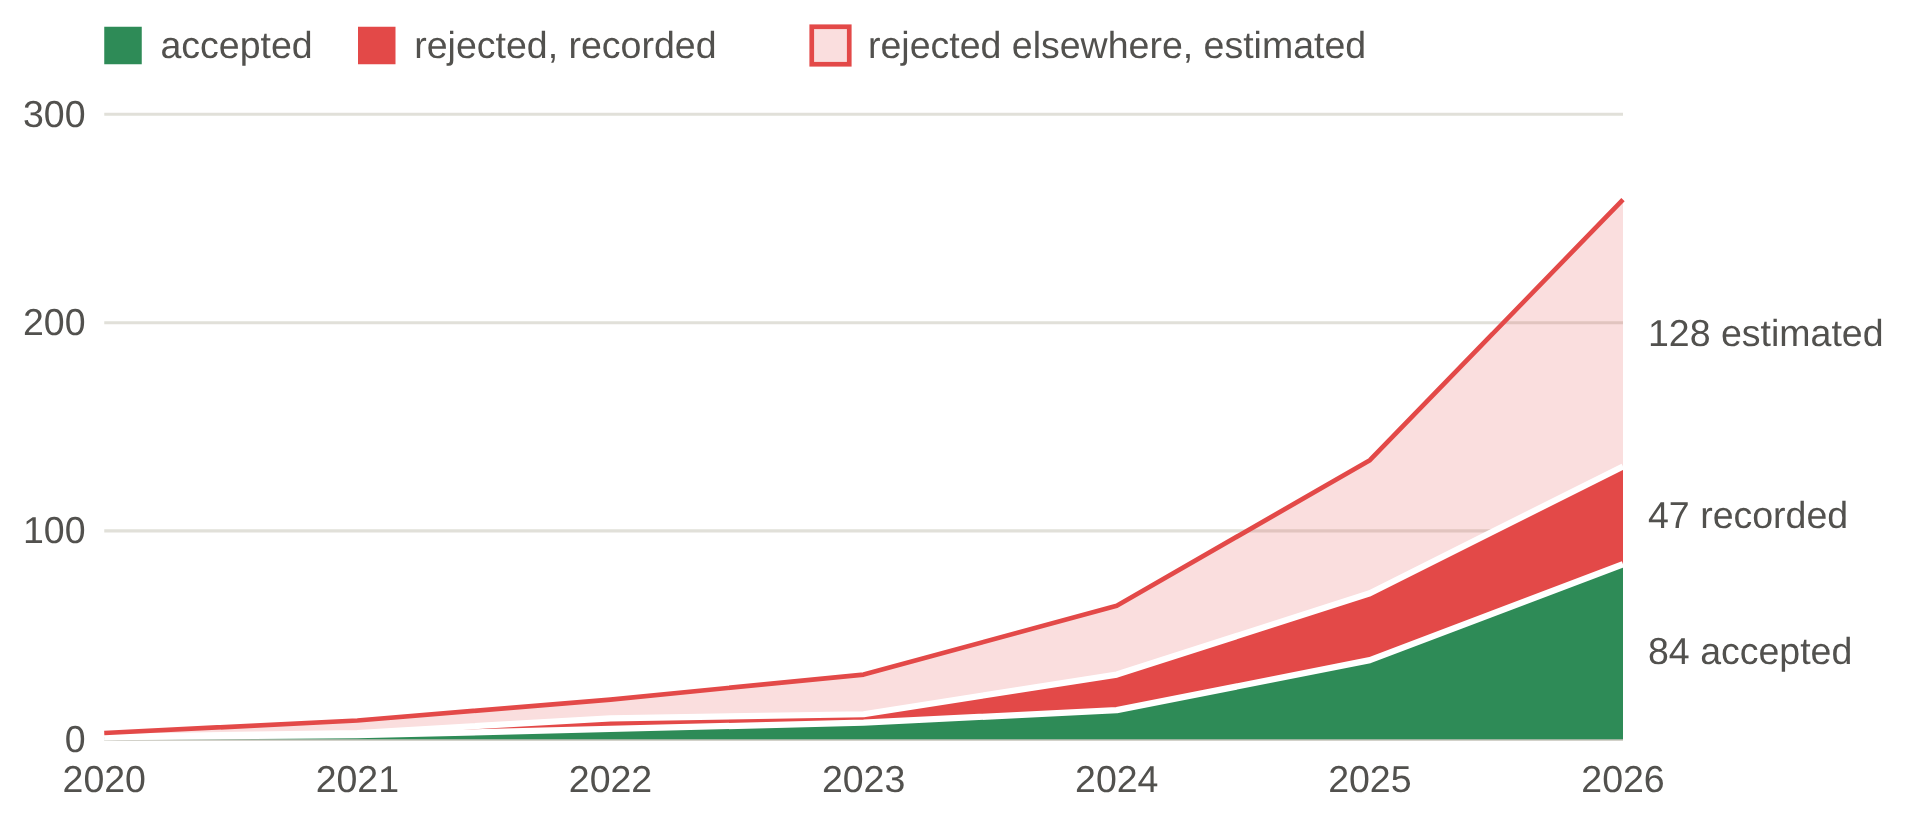
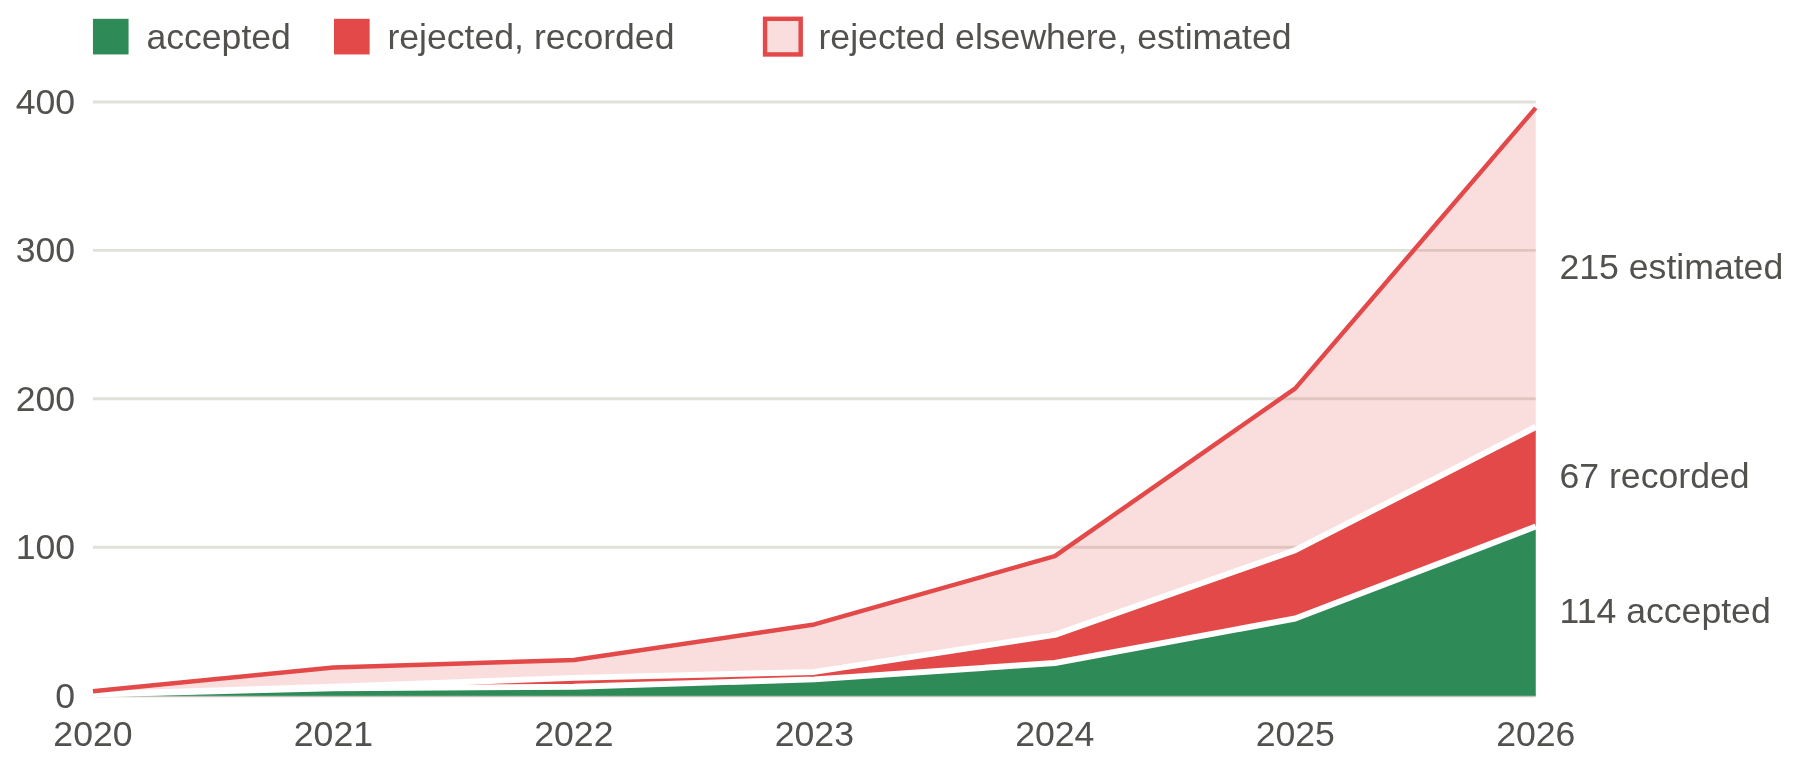
README: current figures (submissions 2020-2026, researcher collaboration), top-10 sample table; maintainer's README edits; networkx in the setup

diff --git a/README.md b/README.md
@@ -1,74 +1,100 @@
-# Vietnam at top AI conferences
+# Vietnam AIRankings
 
-A bilingual (Vietnamese / English) static site that counts, for a hand-approved list of lecturers and professors in
-Vietnam, the papers they submitted to and had accepted or rejected at AAAI, IJCAI, ICLR, NeurIPS, ICML, CVPR, ICCV, ECCV, ACL,
-EMNLP and NAACL since 2020, grouped as CSRankings does (AI, ML, CV, NLP).
+An open-source, data-driven bilingual (Vietnamese / English) static site that tracks and benchmarks scientific publications from faculty at Vietnamese universities at premier international conferences in artificial intelligence.
 
-**Website: <https://thanhlexyz.github.io/vn-at-top-ai-conference/>**
+Publications are tracked from 2020 onward across ten flagship conferences in four core subfields following the [CSRankings](https://csrankings.org/) model:
+- **AI:** AAAI, IJCAI
+- **ML:** ICLR, NeurIPS, ICML
+- **CV:** CVPR, ICCV (odd years), ECCV (even years)
+- **NLP:** ACL, EMNLP
+
+**Live Website:** <https://thanhlexyz.github.io/vn-at-top-ai-conference/>
 
 ![Accepted, recorded rejected and estimated rejected papers of all listed professors per year](docs/submissions.png)
 
-*Submissions per year, all listed professors: accepted papers, rejections on record (every ICLR rejection, public
-NeurIPS rejections and Findings papers), and the rejections the other venues do not publish, estimated from each
-professor's own ICLR record.*
+*Submissions per year across all listed faculty: accepted papers, recorded rejections (all ICLR submissions, public NeurIPS rejections, and Findings papers), and estimated submissions at non-disclosing venues projected from each researcher's ICLR record using Laplace smoothing.*
 
 ![Researcher collaboration graph: professors on the list joined by the papers they share](docs/researcher-graph.png)
 
-*Who works with whom: each circle is a professor on the list (Vietnamese names), coloured by institution; lines join
-people who share papers, shorter for more shared papers.*
+*Co-authorship network: each node represents a tracked faculty member, colored by university affiliation. Connecting edges indicate shared publications, with shorter distances representing stronger collaboration.*
 
-The figures are snapshots of the site; the live pages are updated with the data.
+### Sample data: top 10 by CSRankings score (2026-11-23)
 
-## How to maintain it
+Accepted main-track papers per area and the CSRankings score; the full table is on the [live site](https://thanhlexyz.github.io/vn-at-top-ai-conference/).
 
-The site is maintained by asking an AI coding agent (for example Claude Code) to do the work, in plain words. Every
-step is described in [CLAUDE.md](CLAUDE.md); Claude Code reads it automatically, and any other agent can be told to
-read it first. Typical requests:
+| # | Professor | Institution | AI | ML | CV | NLP | CSRankings score |
+|---:|---|---|---:|---:|---:|---:|---:|
+| 1 | Đàm Quang Tuấn | HUST | 0 | 12 | 0 | 0 | 5.48 |
+| 2 | Ngô Văn Linh | HUST | 6 | 8 | 1 | 15 | 4.96 |
+| 3 | Đoàn Đăng Khoa | VinUni | 2 | 15 | 3 | 0 | 3.81 |
+| 4 | Nguyễn Phi Lê | HUST | 1 | 9 | 6 | 2 | 3.19 |
+| 5 | Phạm Văn Cường | PTIT | 2 | 2 | 9 | 0 | 2.52 |
+| 6 | Lê Duy Dũng | VinUni | 2 | 7 | 1 | 1 | 2.36 |
+| 7 | Thân Quang Khoát | HUST | 1 | 7 | 1 | 1 | 1.84 |
+| 8 | Huỳnh Thị Thanh Bình | HUST | 3 | 2 | 0 | 1 | 1.70 |
+| 9 | Phạm Văn Cảnh | Phenikaa | 4 | 1 | 0 | 0 | 1.25 |
+| 10 | Nguyễn Tuấn Bình | VinUni | 0 | 4 | 0 | 0 | 1.08 |
 
-- "Track `<OpenReview profile URL>`, he is a lecturer at `<university>`."
-- "Add these unofficial acceptances: `<announcement text, screenshot or link>`."
-- "`<name>`'s photo is at `<link>`" or "their staff page is `<link>`".
-- "This paper is wrong: `<link>`" (wrong person, wrong affiliation, missing paper).
-- "Refresh the data" (for example after a conference publishes its accepted papers).
-- "Publish."
+---
 
-Check the result on the local site (`make run`, then <http://localhost:1313>) or on the live site after publishing.
+## Key Features & Methodology
 
-## What you need to do yourself
+- **Scope & Criteria:** Tracks Vietnamese lecturers, assistant professors, associate professors, and full professors whose primary appointment is at a university in Vietnam. Only official full-length Main Track papers (Long Papers) are counted toward primary rankings.
+- **CSRankings Scoring:** Each paper receives 1.0 point divided equally among all authors (`1 / N`). An institution's score is the geometric mean of `(Area Score + 1)` across all four subfields.
+- **Authorship Perspectives:** Provides dedicated filters for **first-author** and **majority-institution (>50%)** publications, highlighting direct lab mentoring and internal student guidance versus broad external collaborations.
+- **Submission Modeling:** Accounts for differing review disclosure policies across venues. Confirmed acceptances at confidential venues are extrapolated based on the researcher's demonstrated ICLR submission and acceptance rates.
+- **Interactive Visualizations:** Includes institution and co-author collaboration graphs, annual publication trends, and venue distributions.
 
-- **Set up once:** Python 3.10+, Hugo 0.156+, `poppler` (`pdftotext`), ImageMagick, and
-  `pip install openreview-py opencv-python-headless`.
-- **Give your OpenReview login** in the environment as `OPENREVIEW_USERNAME` and `OPENREVIEW_PASSWORD` (OpenReview
-  is the only source of rejected papers; the agent never prints them).
-- **Decide** what only you can decide: who belongs on the list, and the answers the agent asks for when a match is
-  uncertain.
-- **Keep private material out of the repository.** The repository is public: everything committed, including
-  `backend/roster.csv` and its notes, is visible to everyone. Screenshots and downloads go to the git-ignored
-  `backend/raw/`.
+---
 
-## TODO
+## How to Maintain
 
-- [ ] **Track more professors now that AAAI, IJCAI and NAACL are counted** (added 2026-10-05; the staff list was
-  not expanded then). The papers of people already on the list are counted, but lecturers in Vietnam who publish
-  mainly at these three venues are not on the list yet. Their lists print no affiliations, so `find_candidates.py`
-  cannot find them automatically, as it already cannot for ACL, EMNLP, and CVPR before 2023. Ways to find them:
-  - the Candidates page (`make run`): since 2026-10-05 it includes authors printed at a university in Vietnam on
-    AAAI, IJCAI and NAACL papers with two or more Vietnamese family names (`fetch_affiliations.py --scan`), 166
-    people in all, most of them students. The page shows each one's OpenReview post; 22 have a profile at the
-    university on their papers as lecturer or professor (looked up on 2026-10-05), the first ones to check;
-  - co-authors of professors already on the list, on their AAAI, IJCAI and NAACL papers;
-  - staff pages of faculties of computer science and AI in Vietnam (`backend/faculty.csv`).
+The site is designed to be maintained with the assistance of an AI coding agent (such as Claude Code or Gemini via Antigravity) through natural language requests. All operational rules and maintenance workflows are documented in [CLAUDE.md](CLAUDE.md).
 
-  For each person found, decide whether they qualify (a lecturer or higher whose main post is at a university in
-  Vietnam), then ask the agent to "track" them with their OpenReview profile or staff page.
+Common maintenance requests:
+- *"Track `<OpenReview profile URL>`, they are a lecturer at `<university>`."*
+- *"Add these unofficial acceptances from `<announcement link or text>`."*
+- *"Update profile photo for `<name>` from `<link>`."*
+- *"Fix attribution for `<link>` (reassign institution or resolve namesake). "*
+- *"Refresh the data after new conference proceedings are released."*
+- *"Publish updates."*
 
-## Commands, if you want them
+You can verify all updates locally before deploying (`make run`, accessible at <http://localhost:1313>).
 
+---
+
+## Requirements & Setup
+
+### Prerequisites
+- **Python:** 3.10+
+- **Hugo:** Extended version (0.156+)
+- **System Tools:** `poppler` (`pdftotext`), `imagemagick`
+- **Python Libraries:**
+  ```bash
+  pip install openreview-py networkx opencv-python-headless
+  ```
+
+### Credentials
+Set your OpenReview credentials in your local environment so that the backend can query submission records:
+```bash
+export OPENREVIEW_USERNAME="your-username"
+export OPENREVIEW_PASSWORD="your-password"
 ```
-make run       # local site at http://localhost:1313
-make data      # rebuild the data from the cached lists
-make test      # checks of the counting rules
-make publish   # build the public site and push it to GitHub Pages
+
+### Common Commands
+
+```bash
+make run       # Start local development server at http://localhost:1313
+make data      # Rebuild JSON data and content stubs from raw caches
+make build     # Build production site with Hugo (must have zero warnings)
+make test      # Run all 33 backend verification and scoring unit tests
+make publish   # Build the production site and deploy to GitHub Pages
 ```
 
-Feedback from readers arrives as GitHub issues or by e-mail (see the site's Feedback page).
+---
+
+## Roadmap & Ongoing Tasks
+
+- [ ] **Expand faculty roster for AAAI and IJCAI:** Identify and verify additional lecturers and researchers in Vietnam who publish primarily in AAAI and IJCAI proceedings (where author affiliations are often omitted from web proceedings and require manual PDF title verification).
+- [ ] **Cross-reference Candidates page:** Review authors affiliated with Vietnamese institutions identified via `find_candidates.py` and promote qualifying faculty to the active roster (`backend/roster.csv`).
+- [ ] **Community Feedback:** Process submissions and corrections submitted via GitHub issues and the site's [Feedback page](https://thanhlexyz.github.io/vn-at-top-ai-conference/feedback/).
